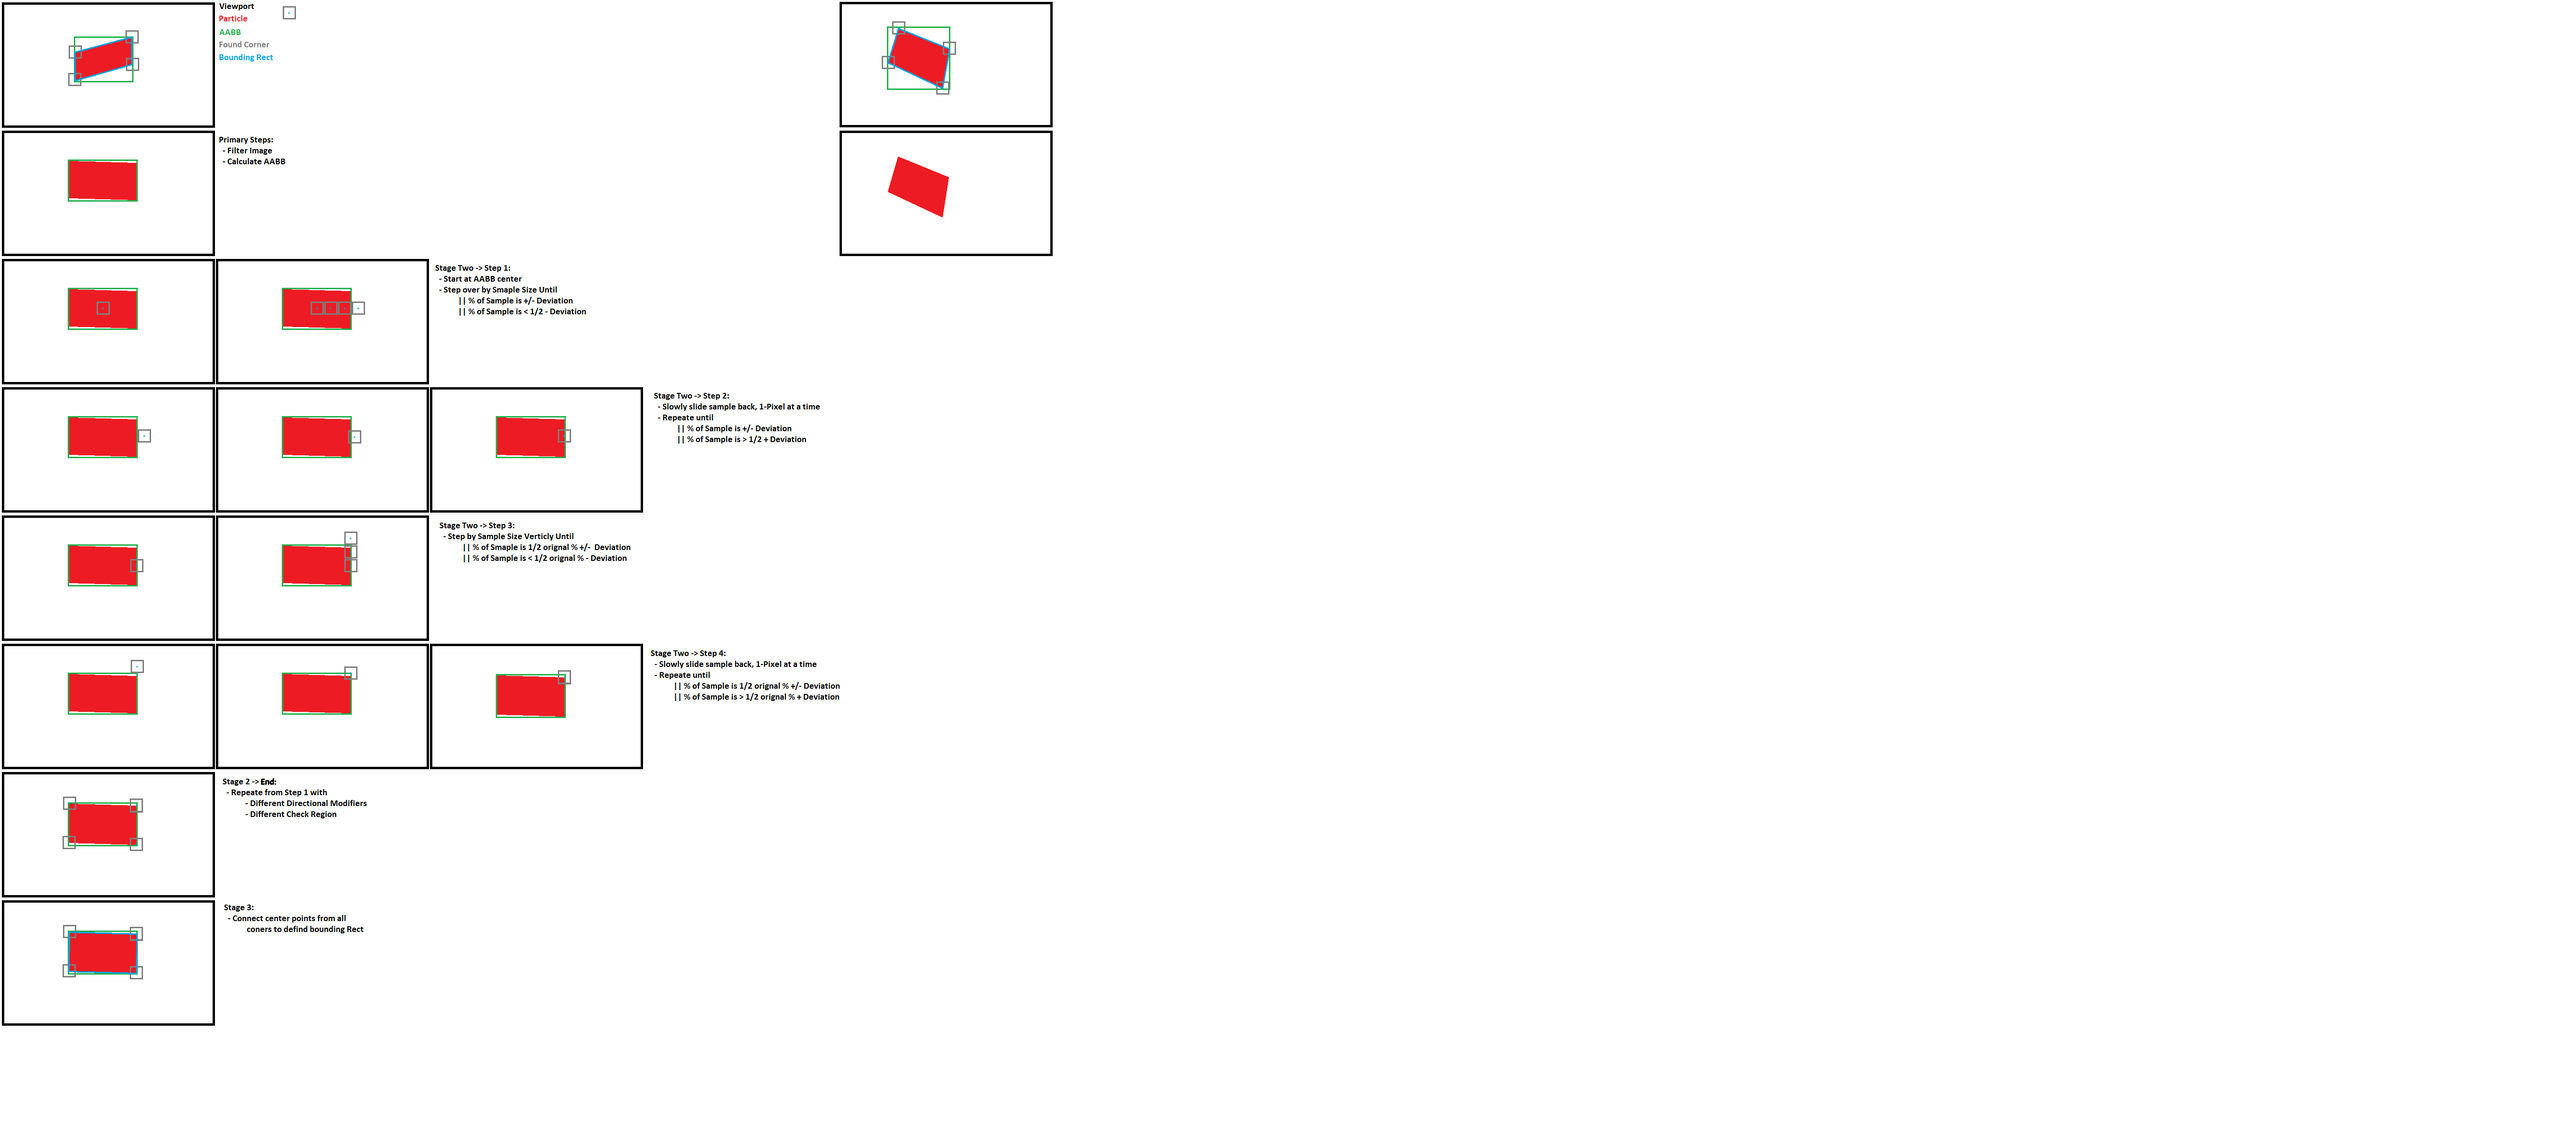
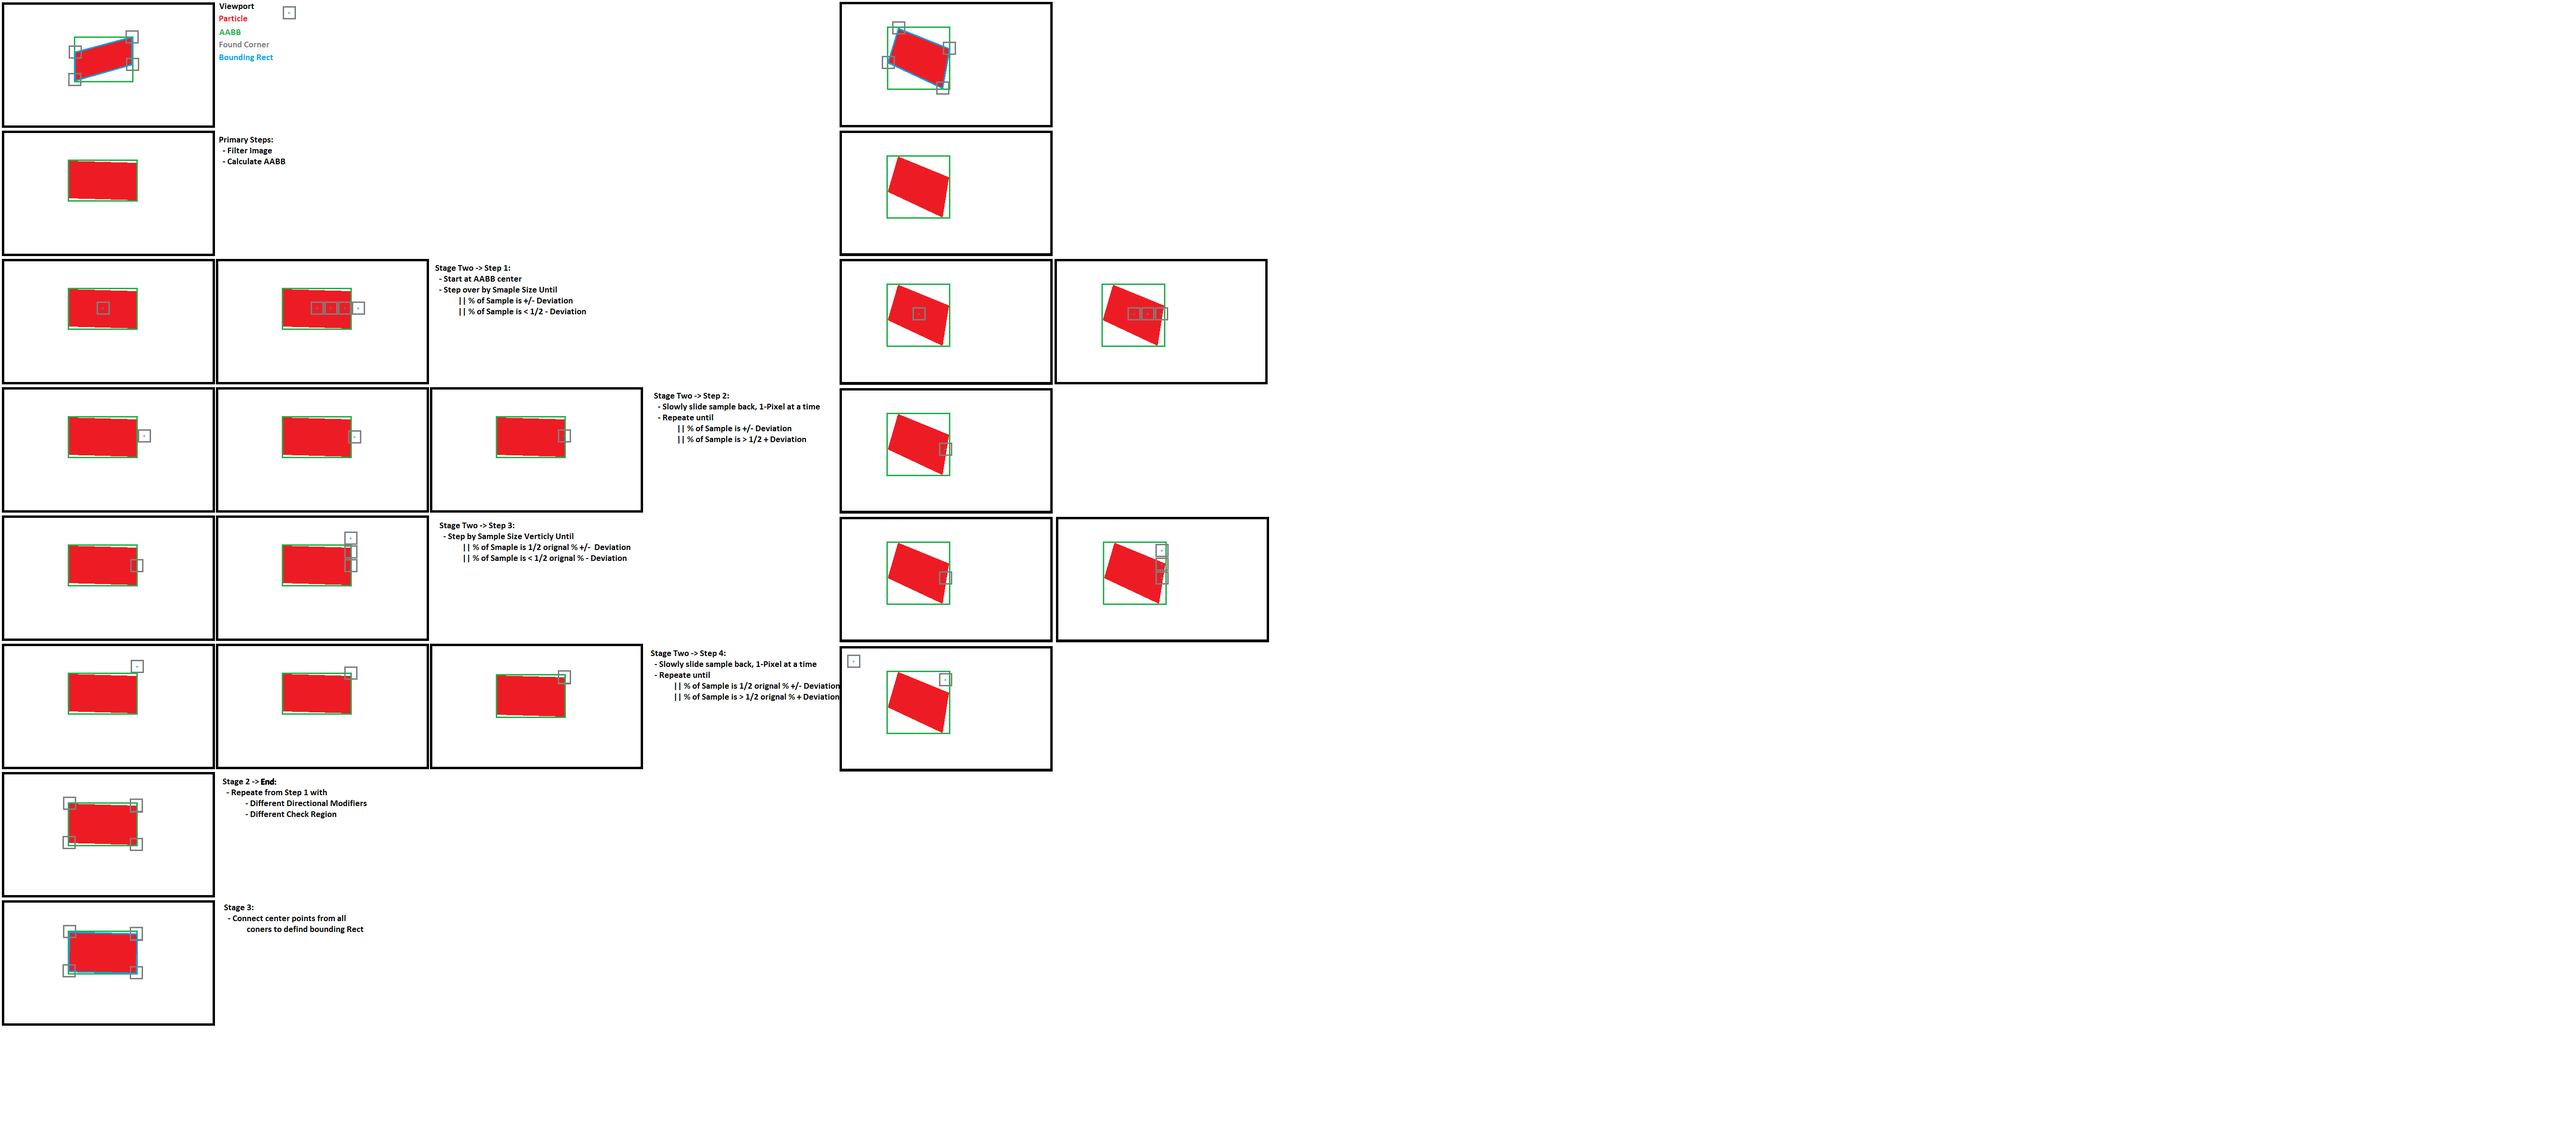
Small Updates still W.I.P.
- Added 1/2 a case to the Step-By-Step Image
- Added more to the conner finding system System

Changed region(s): [[0.3125, 0.2188, 0.4688, 0.5312], [0.3125, 0.5625, 0.4375, 0.6562]]

diff --git a/JAVA Image Prossesing/src/org/usfirst/frc/team3555/robot/Robot.java b/JAVA Image Prossesing/src/org/usfirst/frc/team3555/robot/Robot.java
@@ -342,15 +342,166 @@ public class Robot extends SampleRobot {
 		}
 	}
 	
-	private float calcPercentage(boolean[][] sample) {
-		float total = 0.0f;
-		for(boolean[] array : sample) {
-			for(boolean bool : array) {
-				total += bool ? 1 : 0;
+	
+	
+	public static class Sample {
+		private BufferedImage image;
+		private int sampleSize;
+		private boolean[][] sampleData;
+		private int x, y;
+		
+		public Sample(int sampleSize, int x, int y) {
+			this.sampleSize = sampleSize;
+			this.sampleData = new boolean[sampleSize][sampleSize];
+			
+			this.x = x;
+			this.y = y;
+		}
+		
+		public float calcPercentage() {
+			float total = 0.0f;
+			for(boolean[] array : sampleData) {
+				for(boolean bool : array) {
+					total += bool ? 1 : 0;
+				}
+			}
+			
+			return total / (float)(sampleSize * sampleSize);				
+		}
+		
+		/**
+		 * Moves the sample in a Direction by sampleSize 
+		 */
+		public void step(Direction direction) {
+			if(direction.isVertical())
+				y += direction.getModifier() * sampleSize;
+			else
+				x += direction.getModifier() * sampleSize;			
+		}
+		
+		/**
+		 * Moves the sample in a Direction by one Pixel 
+		 */
+		public void nudge(Direction direction) {
+			if(direction.isVertical())
+				y += direction.getModifier();
+			else
+				x += direction.getModifier();			
+		}
+		
+		public float sample(OverflowHandel handel) {
+			if(image == null) throw new IllegalStateException("No Image bound to Sample. Can not sample");
+			
+			float total = 0.0f;
+			for(int x = 0; x < sampleSize; x ++) {
+			for(int y = 0; y < sampleSize; y ++) {
+				if(this.x + x >= image.getWidth() || this.y + y >= image.getHeight() || this.x + x < 0 || this.y + y < 0) 
+					sampleData[x][y] = handel.handelOverflow(this);
+				else
+					sampleData[x][y] = image.getRGB(this.x + x, this.y + y) > 0;//TODO Proper Sample
+					
+				total += sampleData[x][y] ? 1 : 0;	
+			}}
+			
+			return total / (float)(sampleSize * sampleSize);
+		}
+		
+		public void stepToEdge(Direction direction, float edgePercentage, float deviation, Direction maintianDirection, boolean maintainTweekPercenatge) {
+			float percentage = calcPercentage();	
+			while(Math.abs(percentage - edgePercentage) < deviation && percentage > deviation) {
+				step(direction);
+				float newPercentage = sample(OverflowHandel.Zero_On_Overflows);
+				
+				if(maintianDirection != null) {
+					float differance = newPercentage - percentage;
+					if(Math.abs(differance) < deviation) {
+						tweekSample(differance > 0 ? maintianDirection : maintianDirection.getOppsite(), 
+								edgePercentage * (maintainTweekPercenatge ? 2 : 1), deviation / 2.0f, null, false);
+					}
+				}
+				
 			}
 		}
 		
-		return total / (float)(sample.length * sample.length);				
+		public void tweekSample(Direction direction, float edgePercentage, float deviation, Direction maintianDirection, boolean doubleTweekPercenatge) {
+			
+		}
+		
+		// ----------------------------------- -------------------- ----------------------------------- \\
+		// ----------------------------------- Accessor / Modifiers ----------------------------------- \\
+		
+		/**
+		 * Sets the image that the sample will sample from
+		 * @param image The image to use
+		 */
+		public void bindImage(BufferedImage image) {
+			this.image = image;
+		}
+		
+		public void clearSample() {
+			for(int x = 0; x < sampleSize; x ++) {
+			for(int y = 0; y < sampleSize; y ++) {
+				sampleData[x][y] = false;
+			}}
+		}
+		
+		public int getSampleSize() { return sampleSize; }
+		public boolean[][] getSampleData() { return sampleData; }
+
+		public int getX() { return x; }
+		public int getY() { return y; }
+		
+		public int getCenterX() { return x + sampleSize / 2; }
+		public int getCenterY() { return y + sampleSize / 2; }
+		
+		public static enum OverflowHandel {
+			Crash_On_Overflow, Zero_On_Overflows, Zero_All_On_Overflow, One_On_Overflows;
+			
+			public boolean handelOverflow(Sample sample) {
+				switch(this) {
+					case Crash_On_Overflow: 
+						throw new IndexOutOfBoundsException("Overflow handle " + toString());
+					case Zero_All_On_Overflow: sample.clearSample(); 
+					case Zero_On_Overflows: return false;
+					case One_On_Overflows: return true;
+					
+					default: return false;
+				}
+			}
+		}
+	}
+	
+	public static enum Direction {
+		Right(1), Left(-1), Up(-1), Down(1);
+		
+		private int modifier;
+		private Direction(int modifier) {
+			this.modifier = modifier;
+		}
+		
+		public int getModifier() { return modifier; }
+		public boolean isVertical() { return this == Up || this == Down; }
+		
+		public Direction getOppsite() {
+			switch(this) {
+				case Down: return Up;
+				case Left: return Right;
+				case Right: return Left;
+				case Up: return Down;
+				
+				default: return null;
+			}
+		}
+		
+		public static Direction getDirection(int modifer, boolean isVerticle) {
+			if(isVerticle) {
+				if(modifer < 0) return Up;
+				else 			return Down;
+			} else {
+				if(modifer < 0) return Left;
+				else 			return Right;
+			}
+		}
 	}
 	
 	public static class AABB {
